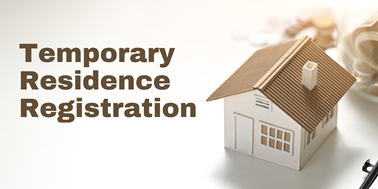
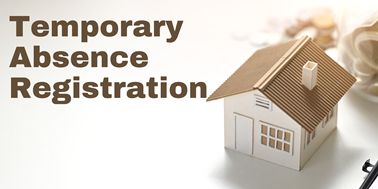
Enhance Vietnamese translations and improve HomePage layout
- Updated Vietnamese translation for business immigration declaration title for better clarity.
- Replaced temporary residence banner image to improve visual consistency.
- Enhanced styling in HomePage to ensure fixed width for cards and improved grid layout for better responsiveness.
- Added functionality to group consecutive periods in the Temporary Residence page for better event management.

Changed region(s): [[0.0, 0.0794, 0.5529, 0.6614]]

diff --git a/src/pages/TemporaryResidence/index.jsx b/src/pages/TemporaryResidence/index.jsx
@@ -171,6 +171,56 @@ const TemporaryResidence = () => {
         });
     };
 
+    // Hàm nhóm các periods liền kề
+    const groupConsecutivePeriods = (events) => {
+        if (!events || events.length === 0) return [];
+
+        // Sắp xếp events theo start date
+        const sortedEvents = [...events].sort((a, b) => 
+            a.start.getTime() - b.start.getTime()
+        );
+
+        const groupedPeriods = [];
+        let currentGroup = {
+            start: sortedEvents[0].start,
+            end: sortedEvents[0].end
+        };
+
+        for (let i = 1; i < sortedEvents.length; i++) {
+            // Lấy end date của group hiện tại và start date của event tiếp theo
+            const prevEndDate = new Date(currentGroup.end);
+            prevEndDate.setHours(0, 0, 0, 0);
+            
+            const nextStartDate = new Date(sortedEvents[i].start);
+            nextStartDate.setHours(0, 0, 0, 0);
+            
+            // Tính số ngày chênh lệch (end date + 1 ngày = start date tiếp theo)
+            // Ví dụ: end 05/01, start tiếp theo 06/01 => chênh lệch 1 ngày (liền kề)
+            const prevEndPlusOne = addDays(prevEndDate, 1);
+            const daysDiff = Math.floor((nextStartDate - prevEndPlusOne) / (1000 * 60 * 60 * 24));
+
+            // Nếu liền kề (chênh lệch <= 0 ngày, tức là nextStart <= prevEnd + 1), merge vào group hiện tại
+            if (daysDiff <= 0) {
+                // Cập nhật end date nếu event mới có end date lớn hơn
+                if (sortedEvents[i].end > currentGroup.end) {
+                    currentGroup.end = sortedEvents[i].end;
+                }
+            } else {
+                // Không liền kề (có khoảng cách), lưu group hiện tại và bắt đầu group mới
+                groupedPeriods.push({ ...currentGroup });
+                currentGroup = {
+                    start: sortedEvents[i].start,
+                    end: sortedEvents[i].end
+                };
+            }
+        }
+
+        // Thêm group cuối cùng
+        groupedPeriods.push(currentGroup);
+
+        return groupedPeriods;
+    };
+
     // Xử lý click vào ngày để thêm event
     const handleDayClick = (date) => {
         const today = new Date();
@@ -444,8 +494,11 @@ const TemporaryResidence = () => {
                                 <table className="w-full border-collapse">
                                     <thead className="sticky top-0 z-10 bg-background/95 backdrop-blur-sm">
                                         <tr>
-                                            <th className="border p-2 text-left font-semibold bg-gray-50/60 backdrop-blur-sm min-w-[150px]">
+                                            <th className="border p-2 text-left font-semibold bg-gray-50/60 backdrop-blur-sm min-w-[150px] sticky left-0 z-20">
                                                 {t('meeting_room_booker_name') || 'Người đăng ký'}
+                                            </th>
+                                            <th className="border p-2 text-left font-semibold bg-gray-50/60 backdrop-blur-sm min-w-[200px] sticky left-[150px] z-20">
+                                                {t('period') || 'Period'}
                                             </th>
                                             {monthDays.map((day, index) => {
                                                 const isTodayDate = isToday(day);
@@ -455,7 +508,7 @@ const TemporaryResidence = () => {
                                                 return (
                                                     <th
                                                         key={index}
-                                                        className={`border p-1 sm:p-2 text-center font-semibold min-w-[80px] ${isTodayDate ? 'bg-blue-100/60 backdrop-blur-sm' : 'bg-gray-50/60 backdrop-blur-sm'}`}
+                                                        className={`border p-1 sm:p-2 text-center font-semibold min-w-[80px] relative z-0 ${isTodayDate ? 'bg-blue-100/60 backdrop-blur-sm' : 'bg-gray-50/60 backdrop-blur-sm'}`}
                                                     >
                                                         <div className="text-[10px] sm:text-xs text-gray-600">{format(day, 'EEE')}</div>
                                                         <div className={`text-xs sm:text-sm md:text-base ${textColor}`}>
@@ -468,10 +521,32 @@ const TemporaryResidence = () => {
                                     </thead>
                                     <tbody>
                                         {userNames.length > 0 ? (
-                                            userNames.map((userName, userIndex) => (
+                                            userNames.map((userName, userIndex) => {
+                                                // Lấy tất cả events của user
+                                                const userEvents = getEventsByUser[userName] || [];
+                                                // Nhóm các periods liền kề
+                                                const groupedPeriods = groupConsecutivePeriods(userEvents);
+                                                
+                                                return (
                                                 <tr key={userIndex} className="hover:bg-gray-50/30">
-                                                    <td className="border p-2 font-medium bg-gray-50/40 backdrop-blur-sm sticky left-0 z-5">
+                                                    <td className="border p-2 font-medium bg-gray-50/40 backdrop-blur-sm sticky left-0 z-15 align-top">
                                                         {userName}
+                                                    </td>
+                                                    <td className="border p-2 font-medium bg-gray-50/40 backdrop-blur-sm sticky left-[150px] z-15 align-top">
+                                                        {groupedPeriods.length > 0 ? (
+                                                            <div className="space-y-1">
+                                                                {groupedPeriods.map((period, periodIdx) => (
+                                                                    <div 
+                                                                        key={periodIdx}
+                                                                        className="text-xs sm:text-sm text-gray-700 whitespace-nowrap"
+                                                                    >
+                                                                        {format(period.start, 'dd/MM/yyyy')} - {format(period.end, 'dd/MM/yyyy')}
+                                                                    </div>
+                                                                ))}
+                                                            </div>
+                                                        ) : (
+                                                            <span className="text-xs sm:text-sm text-gray-400">-</span>
+                                                        )}
                                                     </td>
                                                     {monthDays.map((day, dayIndex) => {
                                                         const userDayEvents = getUserEventsForDay(userName, day);
@@ -481,27 +556,30 @@ const TemporaryResidence = () => {
                                                         return (
                                                             <td
                                                                 key={dayIndex}
-                                                                className={`py-1 sm:py-2 text-center align-top min-h-[60px] ${past ? 'bg-gray-100/40 backdrop-blur-sm opacity-50' : 'bg-white/60 backdrop-blur-sm'} ${isTodayDate ? 'bg-blue-50/60 backdrop-blur-sm' : ''}`}
+                                                                className={`py-1 sm:py-2 text-center align-top min-h-[60px] relative z-0 ${past ? 'bg-gray-100/40 backdrop-blur-sm opacity-50' : 'bg-white/60 backdrop-blur-sm'} ${isTodayDate ? 'bg-blue-50/60 backdrop-blur-sm' : ''}`}
                                                                 style={{
                                                                     cursor: past ? 'not-allowed' : 'pointer',
+                                                                    zIndex: -1,
                                                                 }}
                                                                 onClick={() => !past && handleDayClick(day)}
                                                             >
                                                                 {userDayEvents.length > 0 && (
-                                                                    <div className="space-y-1">
+                                                                    <div className="space-y-1 relative" style={{ zIndex: 0 }}>
                                                                         {userDayEvents.map((event, eventIndex) => (
                                                                             <div
                                                                                 key={event.id || eventIndex}
-                                                                                className=" text-[10px] sm:text-xs cursor-pointer  relative overflow-hidden"
+                                                                                className=" text-[10px] sm:text-xs cursor-pointer relative overflow-hidden"
                                                                                 style={{
                                                                                     backgroundColor: "navy",
+                                                                                    zIndex: 0,
+                                                                                    position: "relative",
                                                                                 }}
                                                                                 onClick={(e) => {
                                                                                     e.stopPropagation();
                                                                                     handleEventClick(event);
                                                                                 }}
                                                                             >
-                                                                                <div className="flex items-center justify-center" title={`${format(event.start, 'dd/MM/yyyy')} - ${format(event.end, 'dd/MM/yyyy')}`}>
+                                                                                <div className="flex items-center justify-center" style={{ zIndex: 0 }} title={`${format(event.start, 'dd/MM/yyyy')} - ${format(event.end, 'dd/MM/yyyy')}`}>
                                                                                     <PlaneTakeoff style={{
                                                                                         color:"navy",
                                                                                     }} className="h-4 w-4 sm:h-5 sm:w-5 drop-shadow-sm" />
@@ -514,10 +592,11 @@ const TemporaryResidence = () => {
                                                         );
                                                     })}
                                                 </tr>
-                                            ))
+                                                );
+                                            })
                                         ) : (
                                             <tr>
-                                                <td colSpan={monthDays.length + 1} className="border p-4 text-center text-gray-500">
+                                                <td colSpan={monthDays.length + 2} className="border p-4 text-center text-gray-500">
                                                     {t('no_data') || 'Không có dữ liệu'}
                                                 </td>
                                             </tr>

diff --git a/src/pages/HomePage/index.jsx b/src/pages/HomePage/index.jsx
@@ -144,10 +144,11 @@ const HomePage = () => {
       <Box className="s-home">
         <Container maxWidth="xl" className="s-home-container">
           <Box className="s-home-grid-wrapper">
-            <Grid justifyContent={"center"} alignItems="stretch" container spacing={colSpacing} className="s-home-grid">
+            <Grid justifyContent={"flex-start"} alignItems="stretch" container spacing={colSpacing} className="s-home-grid">
             {(() => {
                 // Kiểm tra quyền xem menu
-                const isExpOrSpecialEmp = persType === "EXP" || emp_id === "15050432" || emp_id === "99115447";
+                const isExpOrSpecialEmp = persType === "EXP" || emp_id === "15050432" || emp_id === "99115447" ;
+                const isAdminGA = emp_id === "02026154"|| emp_id === "05110243"
                 const canViewJobPositionMenu = jobPosition !== null && (Number(jobPosition) <= 180 || Number(jobPosition) === 300);
                 
                 // Thu thập tất cả các cards sẽ hiển thị
@@ -160,7 +161,7 @@ const HomePage = () => {
                   }
                   // Menu 002 và 006: hiển thị nếu EXP/special emp
                   else if (item.id === "002" || item.id === "006") {
-                    if (isExpOrSpecialEmp) {
+                    if (isExpOrSpecialEmp || isAdminGA) {
                       visibleCards.push(item);
                     }
                   }
@@ -175,59 +176,114 @@ const HomePage = () => {
                 // Sắp xếp cards theo sort_order để đảm bảo thứ tự đúng
                 visibleCards.sort((a, b) => (a.sort_order || 0) - (b.sort_order || 0));
 
-                // Render cards với layout tự động fit viewport
+                // Render cards với width cố định và căn giữa
                 const result = [];
                 const cardCount = visibleCards.length;
                 
-                // Tính toán số cột dựa trên số lượng cards để fit viewport
-                let lgSize = 4; // Mặc định 3 cột
-                if (cardCount === 1) {
-                  lgSize = 12; // 1 card = full width
-                } else if (cardCount === 2) {
-                  lgSize = 6; // 2 cards = 2 cột
-                } else if (cardCount === 3) {
-                  lgSize = 4; // 3 cards = 3 cột
-                } else if (cardCount === 4) {
-                  lgSize = 3; // 4 cards = 4 cột
-                } else if (cardCount === 5) {
-                  lgSize = 4; // 5 cards = 3-2 layout (3 trên, 2 dưới)
-                }
-                
-                visibleCards.forEach((item, index) => {
-                  // Với 5 cards: layout 3 trên, 2 dưới (căn giữa)
-                  if (cardCount === 5 && index === 3) {
+                // Với 5 cards: layout đặc biệt 3 trên, 2 dưới (căn giữa)
+                if (cardCount === 5) {
+                  // 3 cards đầu tiên
+                  visibleCards.slice(0, 3).forEach((item) => {
                     result.push(
-                      <Grid item lg={2} md={0} xs={0} key={`spacer-start-${index}`} sx={{ display: { xs: 'none', md: 'none', lg: 'block' } }} />
+                      <Grid 
+                        item 
+                        lg="auto"
+                        md={6} 
+                        xs={12} 
+                        key={item.id} 
+                        sx={{ 
+                          height: "100%",
+                          display: "flex",
+                          flexDirection: "column",
+                          maxWidth: { lg: '400px', md: '100%', xs: '100%' },
+                          width: { lg: '400px', md: '100%', xs: '100%' },
+                          flex: { lg: '0 0 400px', md: '1 1 auto', xs: '1 1 auto' }
+                        }}
+                      >
+                        <CardPrimary
+                          data={item}
+                          handleClick={()=>handleNavigate(item.id)}
+                        />
+                      </Grid>
                     );
-                  }
+                  });
                   
+                  // Wrapper để căn giữa 2 cards dưới
+                  // Sử dụng Grid item với width 100% và flex để căn giữa nội dung bên trong
                   result.push(
                     <Grid 
                       item 
-                      lg={lgSize} 
-                      md={6} 
+                      lg={12}
+                      md={12} 
                       xs={12} 
-                      key={item.id} 
+                      key="wrapper-5cards-bottom" 
                       sx={{ 
-                        height: "100%",
-                        display: "flex",
-                        flexDirection: "column"
-                      }}
+                        display: 'flex',
+                        justifyContent: 'center',
+                        width: '100%',
+                        flex: '0 0 100%',
+                        padding: 0,
+                        margin: 0
+                      }} 
                     >
-                      <CardPrimary
-                        data={item}
-                        handleClick={()=>handleNavigate(item.id)}
-                      />
+                      <Box sx={{ 
+                        display: 'flex', 
+                        gap: `${colSpacing * 8}px`, // MUI spacing unit (8px per unit)
+                        justifyContent: 'center',
+                        alignItems: 'stretch',
+                        width: '100%',
+                        '@media (min-width: 1280px)': {
+                          maxWidth: '816px' // 2 cards (800px) + 1 spacing (16px)
+                        }
+                      }}>
+                        {visibleCards.slice(3, 5).map((item) => (
+                          <Box
+                            key={item.id}
+                            sx={{
+                              height: "100%",
+                              display: "flex",
+                              flexDirection: "column",
+                              maxWidth: { lg: '400px', md: 'calc(50% - 16px)', xs: '100%' },
+                              width: { lg: '400px', md: 'calc(50% - 16px)', xs: '100%' },
+                              flex: { lg: '0 0 400px', md: '0 0 calc(50% - 16px)', xs: '1 1 auto' }
+                            }}
+                          >
+                            <CardPrimary
+                              data={item}
+                              handleClick={()=>handleNavigate(item.id)}
+                            />
+                          </Box>
+                        ))}
+                      </Box>
                     </Grid>
                   );
-                  
-                  // Với 5 cards: thêm spacer ở cuối
-                  if (cardCount === 5 && index === 4) {
+                } else {
+                  // Các trường hợp khác: render bình thường
+                  visibleCards.forEach((item) => {
                     result.push(
-                      <Grid item lg={2} md={0} xs={0} key={`spacer-end-${index}`} sx={{ display: { xs: 'none', md: 'none', lg: 'block' } }} />
+                      <Grid 
+                        item 
+                        lg="auto"
+                        md={6} 
+                        xs={12} 
+                        key={item.id} 
+                        sx={{ 
+                          height: "100%",
+                          display: "flex",
+                          flexDirection: "column",
+                          maxWidth: { lg: '400px', md: '100%', xs: '100%' },
+                          width: { lg: '400px', md: '100%', xs: '100%' },
+                          flex: { lg: '0 0 400px', md: '1 1 auto', xs: '1 1 auto' }
+                        }}
+                      >
+                        <CardPrimary
+                          data={item}
+                          handleClick={()=>handleNavigate(item.id)}
+                        />
+                      </Grid>
                     );
-                  }
-                });
+                  });
+                }
                 
                 return result;
               })()}

diff --git a/src/pages/HomePage/HomePage.scss b/src/pages/HomePage/HomePage.scss
@@ -43,11 +43,14 @@
         }
     }
 
-    // Đảm bảo Grid items có cùng height và width
+    // Đảm bảo Grid items có cùng height và width cố định
     .MuiGrid-container {
         align-items: stretch;
         width: 100%;
         margin: 0 !important;
+        justify-content: center !important;
+        display: flex !important;
+        flex-wrap: wrap !important;
     }
 
     .MuiGrid-item {
@@ -60,6 +63,13 @@
             width: 100% !important;
             height: 100% !important;
             flex: 1 1 auto !important;
+        }
+
+        // Đặt width cố định cho cards trên màn hình lớn
+        @media screen and (min-width: 1280px) {
+            max-width: 400px !important;
+            width: 400px !important;
+            flex: 0 0 400px !important;
         }
     }
 

diff --git a/src/components/Card/Primary/CardPrimary.scss b/src/components/Card/Primary/CardPrimary.scss
@@ -17,11 +17,13 @@
     max-height: none !important;
     box-sizing: border-box;
 
-    // Đảm bảo tất cả cards có cùng kích thước
+    // Đảm bảo tất cả cards có cùng kích thước và width cố định
     @media screen and (min-width: 1280px) {
         min-height: 0 !important;
         height: 100% !important;
         max-height: 100% !important;
+        max-width: 100% !important;
+        width: 100% !important;
         flex: 1 1 auto !important;
     }
 
